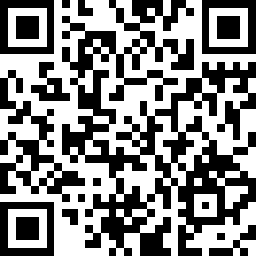
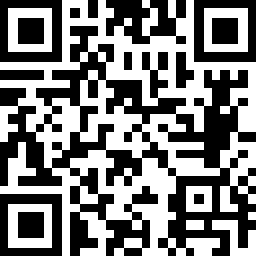
Splash page cookies notification

diff --git a/src/Views/Map/SplashPage/index.js b/src/Views/Map/SplashPage/index.js
@@ -13,7 +13,7 @@ const Cookies = new UniversalCookie()
 export default () => (
   <div className="splash-page">
     <div>
-      <h2>Welcome to Mask Forecast</h2>
+      <h3>Welcome to Mask Forecast</h3>
       {/* <p>Your resource for knowing the mask situation of locations you plan to visit.</p> */}
       <p>
         Check the forecast for masks before you go out. Leave ratings and
@@ -21,7 +21,7 @@ export default () => (
       </p>
     </div>
     <div>
-      <h2>Help Support Us</h2>
+      <h3>Help Support Us</h3>
       {/* <p>We need server space and more human resources. Please help us stay alive by sending some change.</p> */}
       <p>Please help this web app thrive by sending some change.</p>
       <div className="donate">
@@ -33,10 +33,10 @@ export default () => (
           />
           <img
             src={btcQr}
-            alt="38JNvdDbuVweQuMawf8F3cPNyAmK8nPzT9"
+            alt="3FTMoRZ1RyUPWBedobFNTKH4n1iWTGchnp"
             style={{ maxWidth: 66 }}
           />
-          <div>38JNvdDbuVweQuMawf8F3cPNyAmK8nPzT9</div>
+          <div>3FTMoRZ1RyUPWBedobFNTKH4n1iWTGchnp</div>
         </div>
         <div>
           <img src={payPalLogo} alt="PayPal" style={{ maxWidth: 90 }} />
